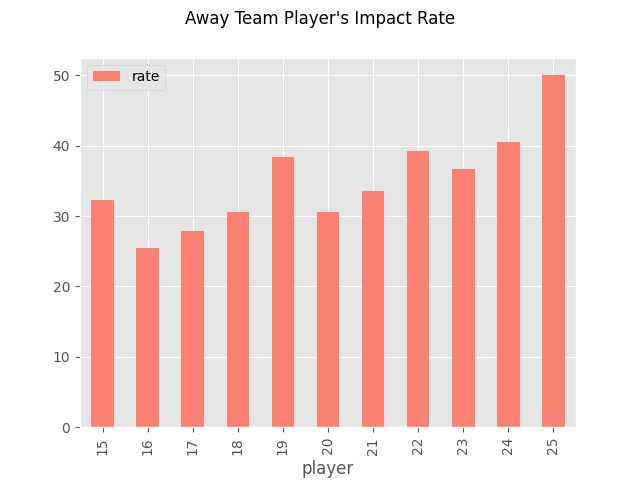
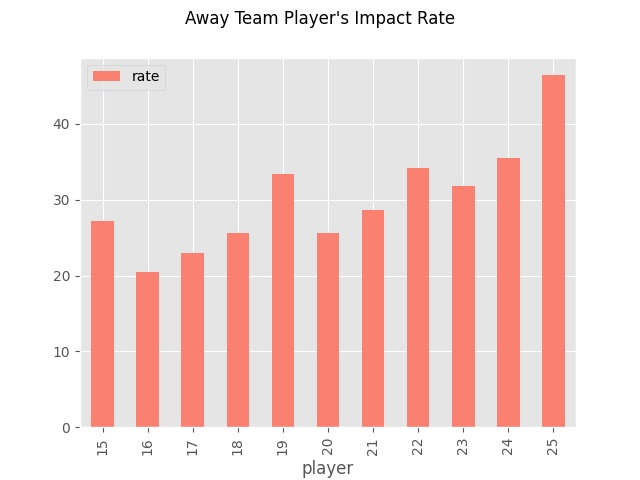
final update!

diff --git a/module1.py b/module1.py
@@ -33,6 +33,7 @@ def types(passes):
 def normal(data):
     newval=[]
     maxi = max(data)
+    mini = min(data)
     for oldval in data:
-        newval.append(oldval/maxi)
+        newval.append((oldval-mini)/(maxi-mini))
     return newval
